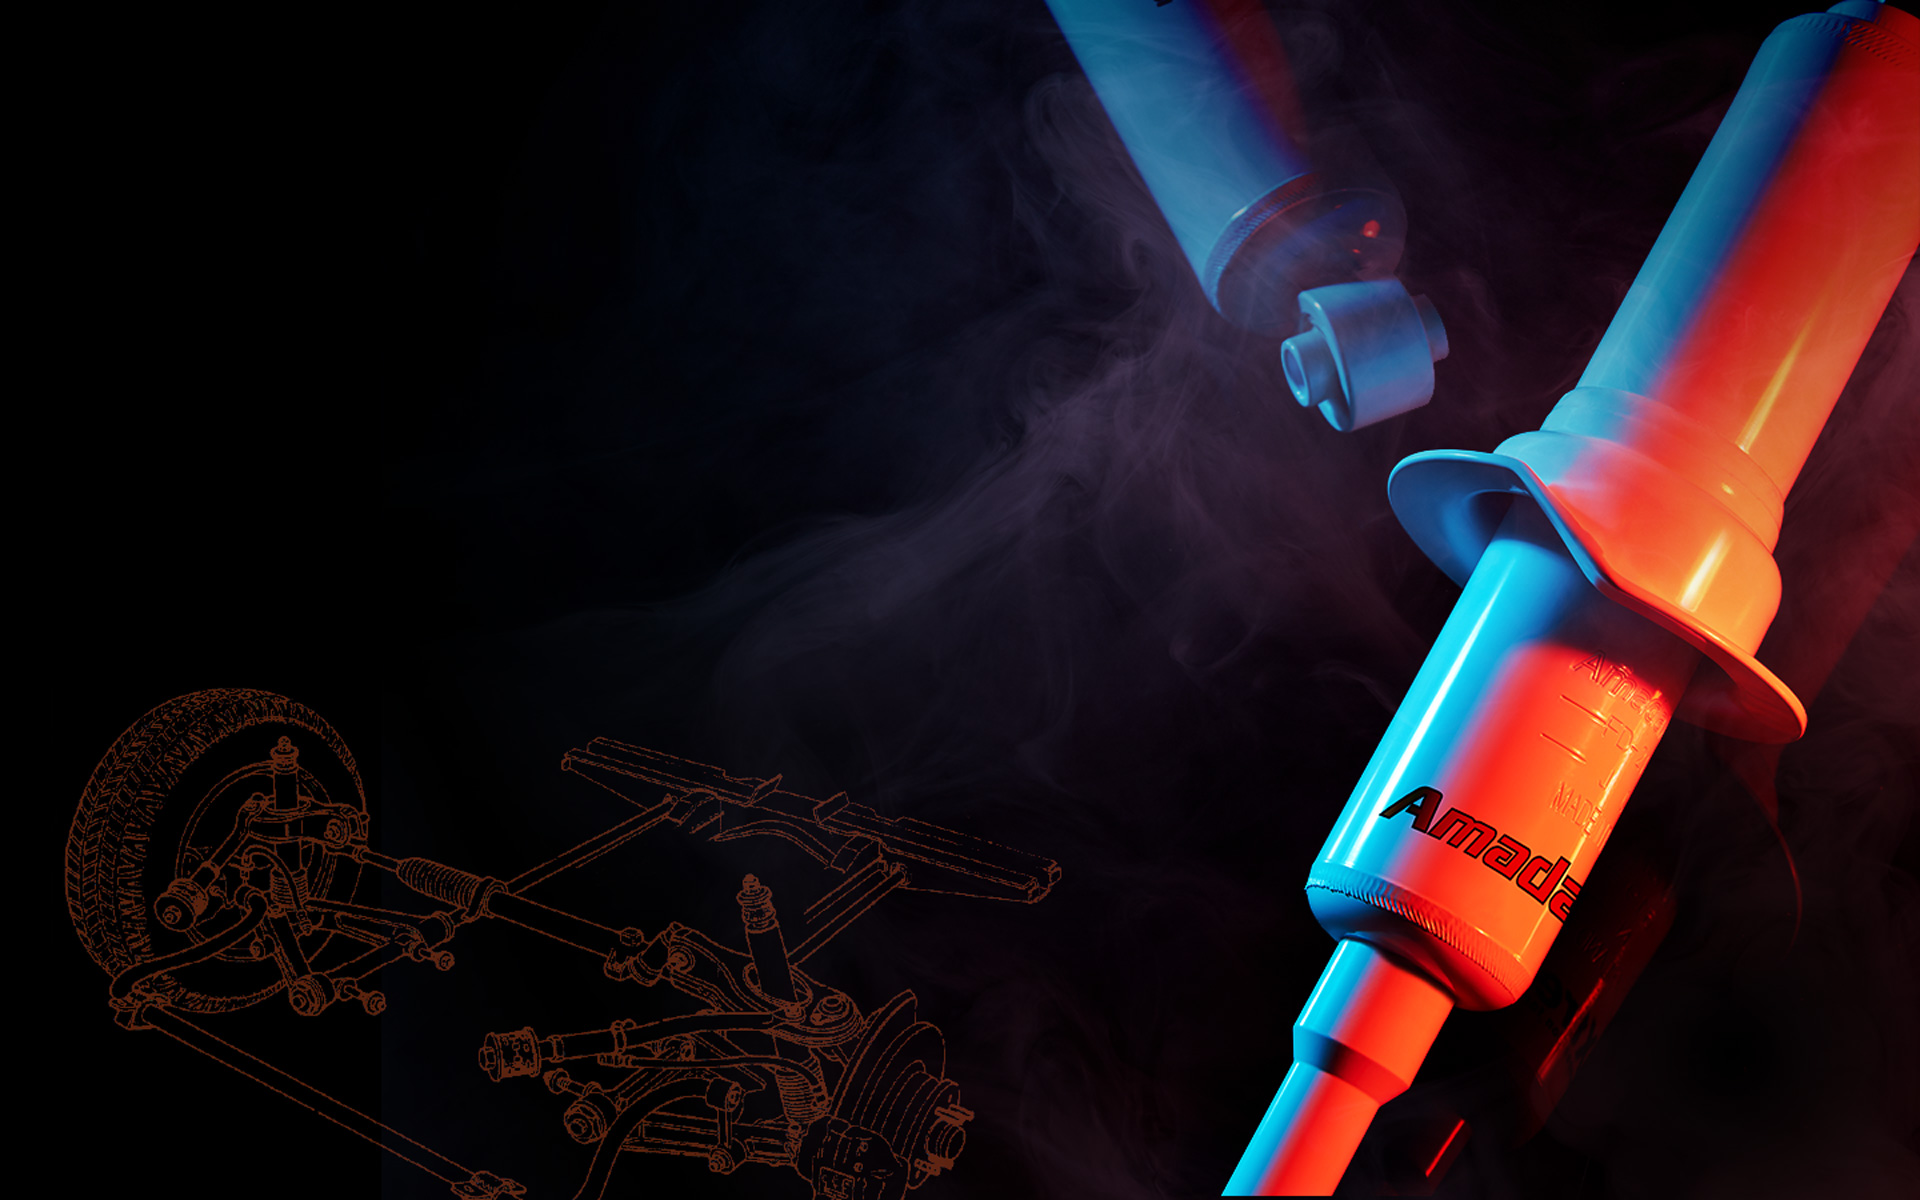
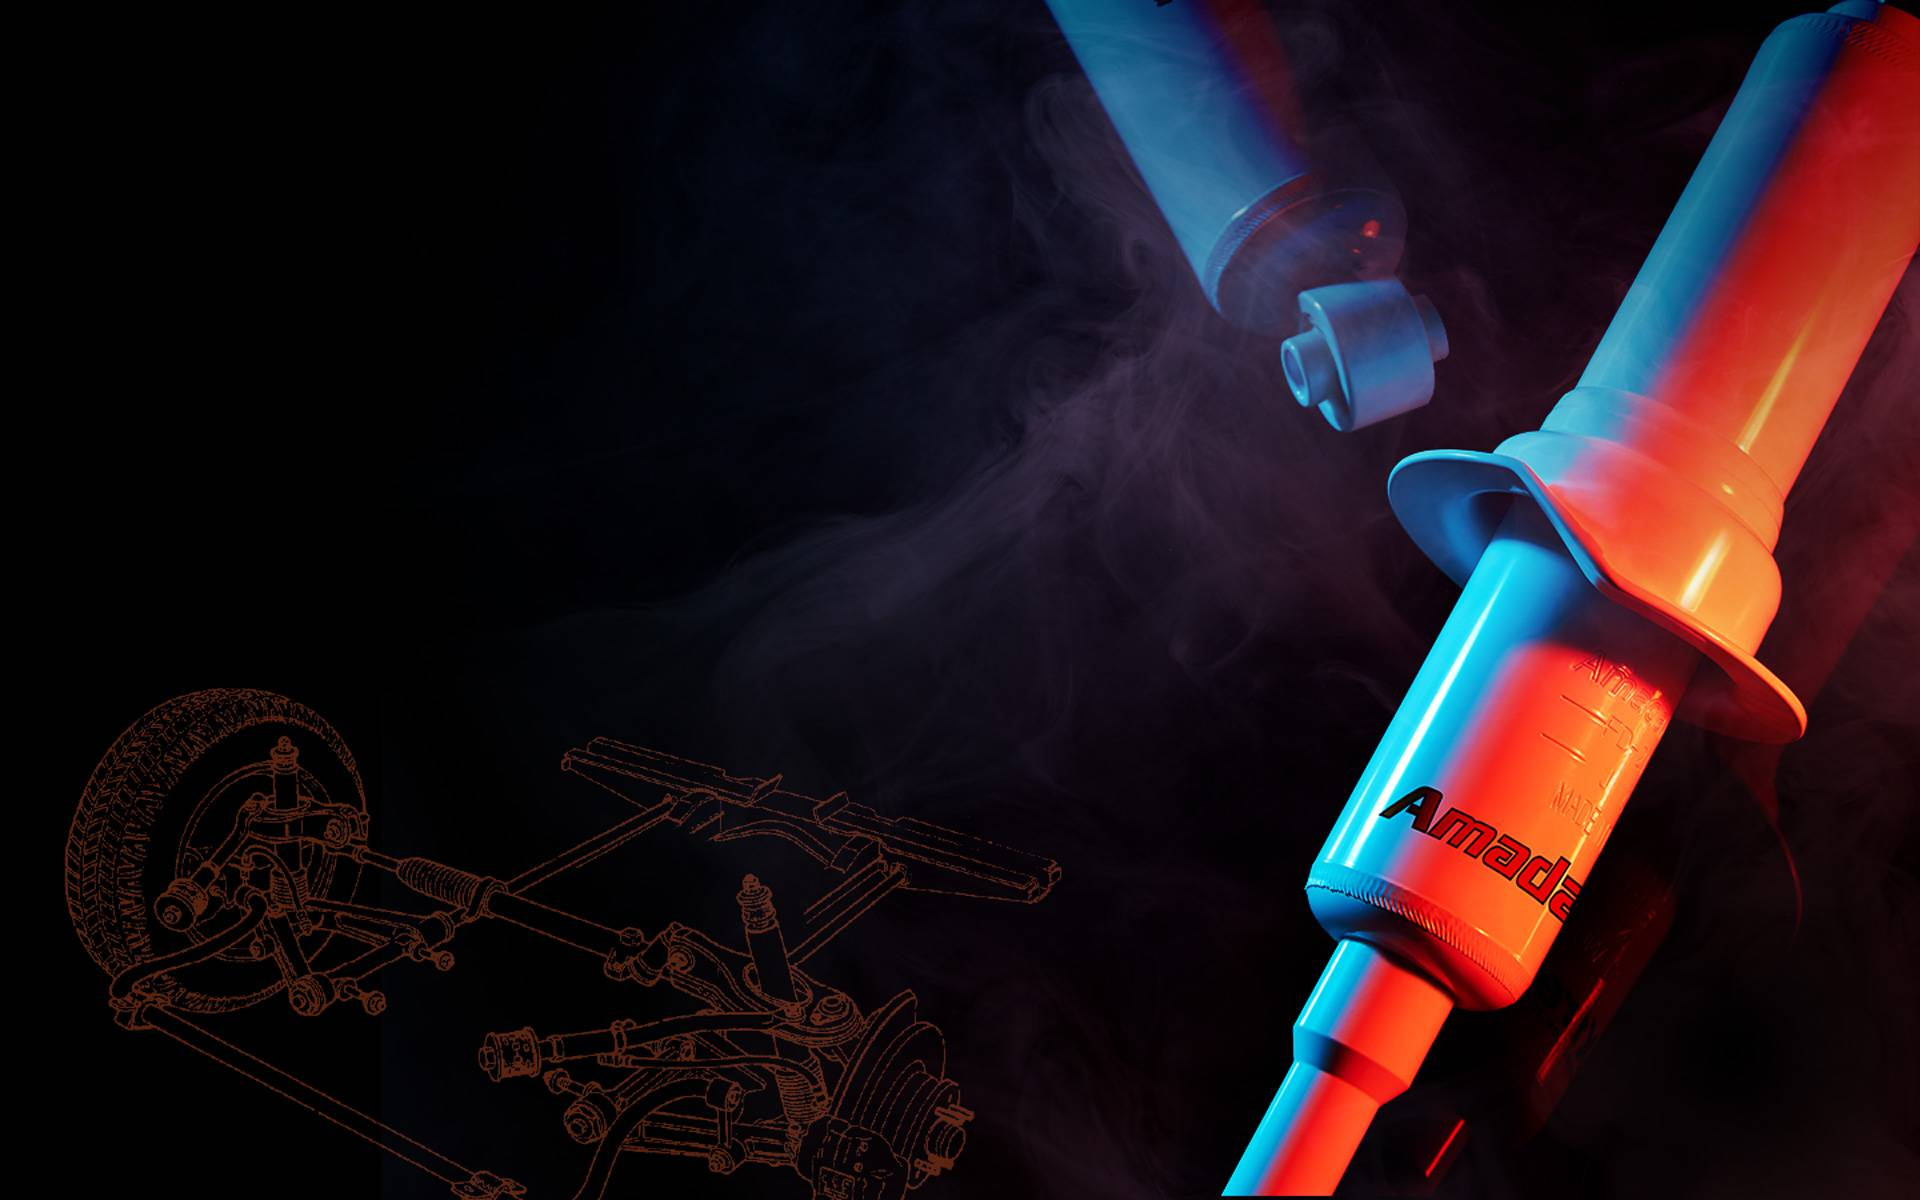
images optimized

diff --git a/compressor.py b/compressor.py
@@ -1,0 +1,19 @@
+from PIL import Image
+import os
+
+name = 'AX005.png'
+path = os.path.join(os.getcwd(), 'img')
+images = os.listdir(os.path.join(os.getcwd(), 'img'))
+image = os.path.join(path, name)
+
+image_file = Image.open(image)
+
+
+def img_compressor(image):
+    image = image.convert('RGB')
+    image.save(name,
+               "JPEG", optimize=True, quality=70)
+    image.show()
+
+
+img_compressor(image_file)
